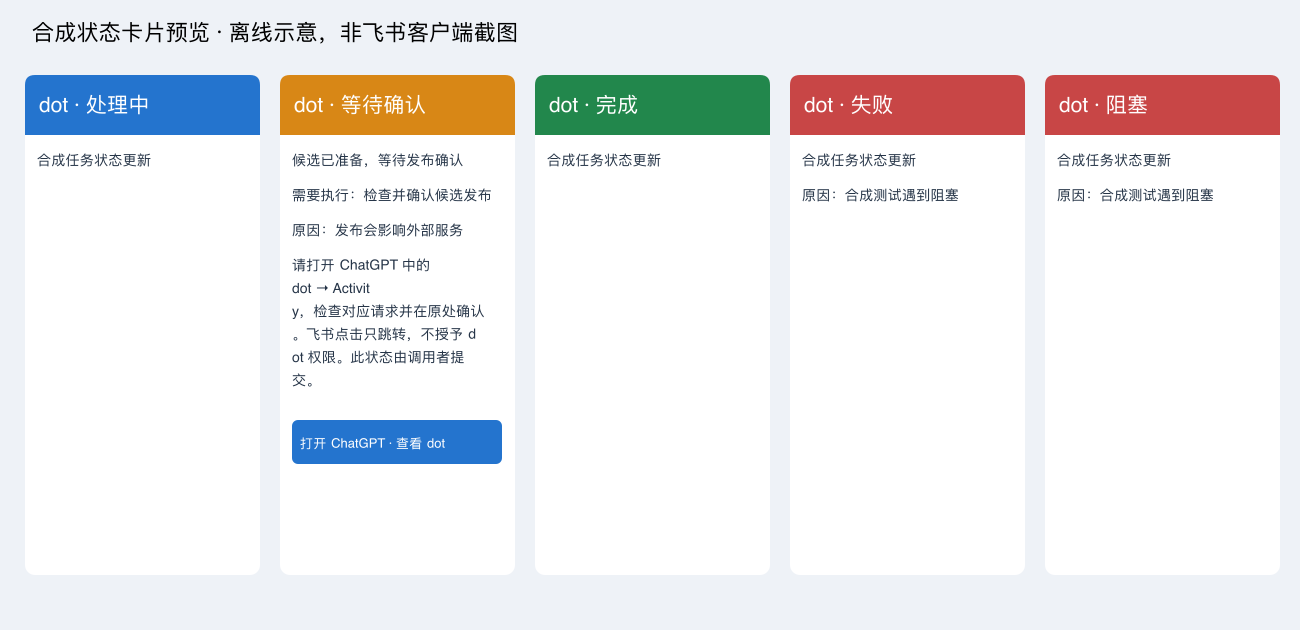
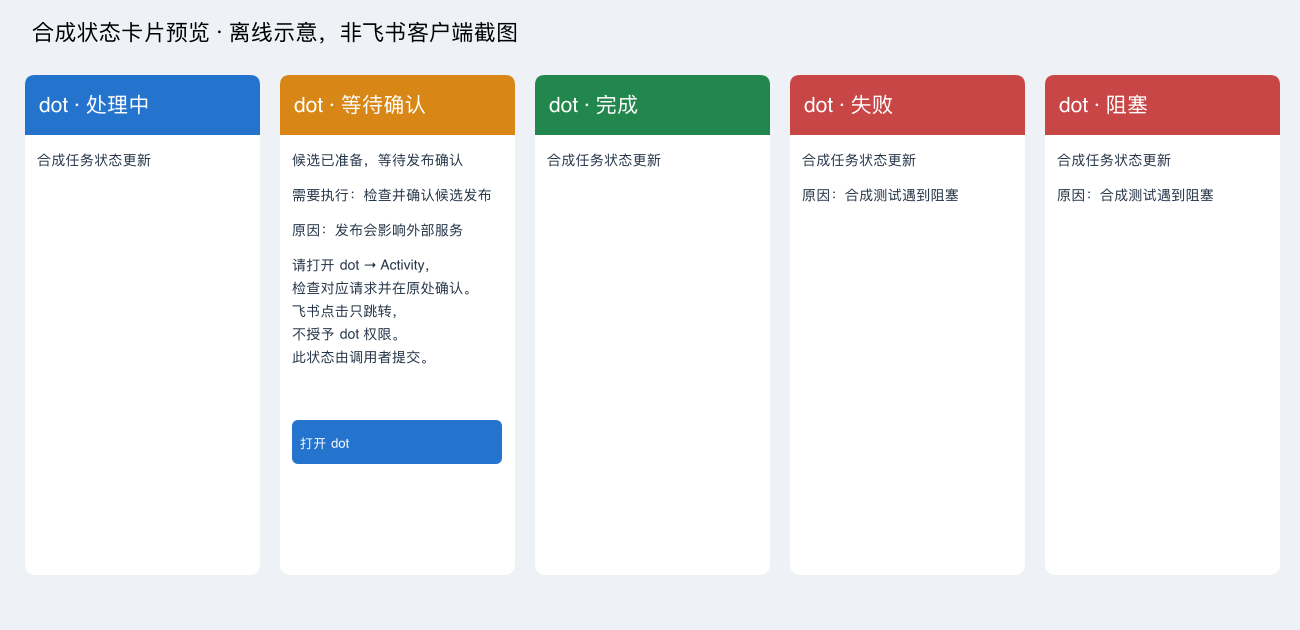
Document explicit outputs and verified dot navigation accurately

Changed region(s): [[0.2154, 0.3921, 0.3692, 0.6032], [0.2462, 0.6937, 0.3385, 0.7238]]

diff --git a/src/status-card.ts b/src/status-card.ts
@@ -14,7 +14,7 @@ export const statusCardSchema = z.object({ binding_id: id, request_id: id, task_
 export type StatusSubmission = z.infer<typeof statusCardSchema>;
 export const labels = { processing:'处理中', waiting_confirmation:'等待确认', completed:'完成', failed:'失败', blocked:'阻塞' };
 // Official product entry only; no guessed task/approval deep links or caller URL.
-export const DOT_ENTRY = 'https://chatgpt.com/';
+export const DOT_ENTRY = 'https://chatgpt.com/dots/home';
 export function buildStatusCard(a: StatusSubmission) {
   for (const value of [a.summary,a.action,a.reason]) if (value && classifyText(value) === 'credential') throw new BridgeError('credential_blocked');
   const label = labels[a.status];
@@ -22,8 +22,8 @@ export function buildStatusCard(a: StatusSubmission) {
   if (a.action) elements.push({ tag:'div', text:{ tag:'plain_text', content:'需要执行：' + a.action } });
   if (a.reason) elements.push({ tag:'div', text:{ tag:'plain_text', content:'原因：' + a.reason } });
   if (a.status === 'waiting_confirmation') {
-    elements.push({ tag:'div', text:{ tag:'plain_text', content:'请打开 ChatGPT 中的 dot → Activity，检查对应请求并在原处确认。飞书点击只跳转，不授予 dot 权限。此状态由调用者提交。' } });
-    elements.push({ tag:'button', text:{ tag:'plain_text', content:'打开 ChatGPT · 查看 dot' }, type:'primary', behaviors:[{ type:'open_url', default_url:DOT_ENTRY }] });
+    elements.push({ tag:'div', text:{ tag:'plain_text', content:'请打开 dot → Activity，检查对应请求并在原处确认。飞书点击只跳转，不授予 dot 权限。此状态由调用者提交。' } });
+    elements.push({ tag:'button', text:{ tag:'plain_text', content:'打开 dot' }, type:'primary', behaviors:[{ type:'open_url', default_url:DOT_ENTRY }] });
   }
   return { schema:'2.0', config:{ update_multi:true, summary:{ content:label + ' · ' + Array.from(a.summary).slice(0,80).join('') + (Array.from(a.summary).length>80 ? '…' : '') } },
     header:{ title:{ tag:'plain_text', content:'dot · ' + label }, template:a.status === 'completed' ? 'green' : ['failed','blocked'].includes(a.status) ? 'red' : a.status === 'waiting_confirmation' ? 'orange' : 'blue' }, body:{ elements } };

diff --git a/test/output.test.ts b/test/output.test.ts
@@ -49,7 +49,7 @@ test('waiting card has plain action/reason, official navigation only and no appr
  assert.throws(()=>f.output.card(f.alice,{...f.card('wait',0,'waiting_confirmation'),action:undefined}));
  const card=buildStatusCard(f.card('wait',0,'waiting_confirmation'));
  assert.match(card.header.title.content,/等待确认/);assert.match(card.config.summary.content,/等待确认/);
- const raw=JSON.stringify(card);assert.ok(raw.includes(DOT_ENTRY));assert.ok(raw.includes('不授予 dot 权限'));assert.equal(raw.includes('callback'),false);assert.equal(raw.includes('value'),false);
+ const raw=JSON.stringify(card);assert.equal(DOT_ENTRY,'https://chatgpt.com/dots/home');assert.ok(raw.includes(DOT_ENTRY));assert.ok(raw.includes('不授予 dot 权限'));assert.equal(raw.includes('callback'),false);assert.equal(raw.includes('value'),false);
  assert.throws(()=>f.output.card(f.alice,{...f.card('fake'),url:'https://attacker.invalid'}));
  assert.throws(()=>f.output.card(f.alice,{...f.card('secret'),summary:'Bearer abcdefghijklmnopqrstuvwxyz123456'}),code('credential_blocked'));
  }finally{f.store.close();}

diff --git a/docs/OUTPUT_DELIVERY_CANDIDATE.md b/docs/OUTPUT_DELIVERY_CANDIDATE.md
@@ -19,7 +19,7 @@ PNG/JPEG only; maximum 4 MiB input and sanitized output, 20 million pixels, maxi
 
 The first submission sends an interactive JSON 2.0 card. Ordinary progress/completion/failure changes PATCH the latest API-accepted card in that task. Every distinct waiting-confirmation submission sends a new important notification card. Repeating the same request and exact body is deduped. A changed body with the same request ID fails; stale revisions and updates after an unresolved predecessor fail. Explicit terminal or uncertain failures require human reconciliation, not a new ID invented to force a resend. A resolved/new activity may use a new observed task ID; do not use this to disguise replay.
 
-The title and message summary name the status. The wait button has only `open_url`, no callback/value/allow action. It opens the verified official ChatGPT homepage and instructs the user to open dot → Activity and respond in the actual request. It does **not** grant dot permission or claim to target a specific approval. The official control documentation verifies the Activity workflow; a precise account-specific dot/approval deep link was not available to this candidate. Parent review should substitute an already independently verified official dot entry if required, never a guessed route or caller-controlled URL. Mobile web dot availability is limited by the official product; use the ChatGPT app when necessary.
+The title and message summary name the status. The wait button has only `open_url`, no callback/value/allow action. It opens the independently verified official dot entry `https://chatgpt.com/dots/home` and instructs the user to open Activity and respond in the actual request. It does **not** grant dot permission or claim to target a specific approval. The official control documentation verifies the Activity workflow; the button does not target a specific task or approval and accepts no caller-controlled URL. Mobile web dot availability is limited by the official product; use the ChatGPT app when necessary.
 
 Cards/images have their own output ledger. They do not fabricate text replies, mark an inbox event handled, or satisfy `covered_by_reply`. Continue to claim/reconcile every original event through the existing schema4 handling workflow.
 
@@ -33,9 +33,9 @@ Offline maintenance recognizes exact schema5, preserves output reservations/tomb
 
 ## Deployment review checklist
 
-No production rollout, permission change, restart, push, merge or real send was performed for this candidate. Review its diff against the exact supplied base and preserve private deployment networking outside the generic commit. On an approved rollout: back up the stopped single-worker database; apply the schema5-capable candidate; run the full synthetic suite on Linux including real decoder and offline-maintenance tests; validate the installed SDK's bounded image POST body allowance; then start one worker.
+The generic development tests make no live sends. A separately authorized installation check is summarized in [acceptance](ACCEPTANCE.md#live-explicit-output-check-2026-10-10); its private deployment configuration and receipts are excluded. Preserve installation-specific networking outside the generic commit. On an approved rollout: back up the stopped single-worker database; apply the schema5-capable candidate; run the full synthetic suite on Linux including real decoder and offline-maintenance tests; validate the installed SDK's bounded image POST body allowance; then start one worker.
 
-Status cards reuse the existing bot message-send permission (`im:message:send_as_bot`); no new callback authorization capability is needed. Before enabling `FEISHU_IMAGE_OUTPUT=on`, verify the app has the upload-image API's required resource permission (the official permission table is the authority), bot capability and existing bound-message send permission. This candidate did not inspect or modify app grants. Keep output images off until real decoder preflight and the dot artifact-byte handoff are validated. Separately authorize a live synthetic-image upload/send and card send/PATCH smoke test to the user's existing bound DM; inspect actual receipts and client visibility. No arbitrary external recipient is configurable.
+Status cards reuse the existing bot message-send permission (`im:message:send_as_bot`); no new callback authorization capability is needed. Before enabling `FEISHU_IMAGE_OUTPUT=on`, verify the app has the upload-image API's required resource permission (the official permission table is the authority), bot capability and existing bound-message send permission. No app grants are assumed or changed by this code. Keep output images off until real decoder preflight and the dot artifact-byte handoff are validated. Separately authorize a live synthetic-image upload/send and card send/PATCH smoke test to the user's existing bound DM; inspect actual receipts and client visibility. No arbitrary external recipient is configurable.
 
 ## Sources
 
@@ -51,9 +51,8 @@ Status cards reuse the existing bot message-send permission (`im:message:send_as
 ## Local candidate validation
 
 - TypeScript build and `git diff --check` pass.
-- New synthetic output/official-SDK transport tests: 17 pass. These cover image bytes, encryption, dedupe/conflicts, JPEG chunks, upload versus message receipts, wait notification/PATCH behavior, revocation, uncertain restart, receipt-persistence failure, binding changes during decode, the real bridge worker, MCP visibility and schema5 exact maintenance layout. Sharp is used on original synthetic pixels through an explicit test decoder seam; no production decoder fallback is added.
-- Final focused output + existing handling/receipt/text/MCP regressions: 61 pass, 1 Linux-only test skipped.
-- Complete serial regression run on macOS with OpenSSL 3: 408 tests, 353 pass, 48 skipped, 7 fail. All seven failures exercise real image decoding or image-enabled startup through missing `/usr/bin/prlimit`. Linux `/proc` maintenance tests are among the skips. This is not a fully green deployment gate. Schema5 maintenance scenarios were added and are locally skipped; they must pass on Linux before rollout.
+- The preceding generic candidate passed the complete Linux suite: 429 tests, 429 pass, zero failures/skips. It includes real decoder and offline-maintenance checks, output dedupe/conflicts, upload versus message receipts, card PATCH, revocation, uncertain restart, receipt-persistence failures, worker/MCP visibility, schema5 migration and staging-quota rollback. All media and provider fixtures are synthetic.
+- The final publication checkout must pass its own build, aggregate Linux suite and demo, and GitHub CI for the exact published SHA. Earlier macOS-only runs with missing Linux prerequisites do not meet this gate.
 - Five raw JSON cards plus [offline preview](assets/status-cards-preview.png) are supplied for review. The preview is an illustration, not evidence of Feishu acceptance/rendering.
 - No production keys, user images, live Feishu calls, deployment permissions, private account IDs, private proxy settings or host paths were introduced.
 

diff --git a/README.en.md b/README.en.md
@@ -2,7 +2,7 @@
 
 ### Keep talking to your dot, from Feishu
 
-Connect your own Feishu bot DM to the dot you already use. Send a question from Feishu, let dot work on it, and bring an authorized text reply back to the original message. With image input enabled, dot can also view newly received PNG/JPEG images.
+Connect your own Feishu bot DM to the dot you already use. Send a question from Feishu, let dot work on it, and bring an authorized text reply back to the original message. With image input enabled, dot can also view newly received PNG/JPEG images. Optional image output sends explicitly requested current generated images to the same paired DM; callers submit status cards explicitly.
 
 **One personal installation, on your own host.** Bring your Feishu app and owner-only official OpenAI Tunnel. The bridge connects them; it does not run a model or provide a shared hosted service.
 
@@ -26,10 +26,12 @@ Connect your own Feishu bot DM to the dot you already use. Send a question from 
 | Continue from Feishu | Receive text and rich posts in your paired bot DM and notify your existing dot; links in posts stay unopened |
 | Bring the answer back | Dot calls `reply_to_feishu` to reply to the original message; authorized ChatGPT text can also be sent as a source-labeled copy to the current paired DM |
 | Show dot an image | Opt-in PNG/JPEG input, including up to four new embedded post images, locally stripped of metadata and re-encoded |
+| Bring back a current generated image | Opt-in PNG/JPEG output: a trusted adapter supplies actual image bytes for upload and message delivery, with separate receipts |
+| Share task status | Explicit processing, confirmation wait, completion, failure or blocked cards; ordinary updates PATCH one card, important waits send a new card, and the button only opens the official dot entry |
 | See which inputs are handled | Per-event processing, approval waits, no-reply decisions and merged-reply coverage, alongside separate queue and API acceptance states |
 | Run on your own host | SQLite-backed inbox and delivery state with host process supervision; one owner, Feishu app and current DM binding per installation |
 
-Text mode exposes **13 MCP tools**. `FEISHU_MEDIA_INPUT=images-v1` adds `get_event_image`, for 14 tools. Image processing and disclosure still need explicit authorization. Audio, transcription and outbound media are unsupported.
+The default catalog has **16 MCP tools**, including status submission and output queries. `FEISHU_MEDIA_INPUT=images-v1` adds `get_event_image`; `FEISHU_IMAGE_OUTPUT=on` adds two image staging/sending tools. Input alone gives 17 tools, output alone 18, and both enabled 19. Input and output are separate opt-ins limited to bounded PNG/JPEG. Image processing, disclosure and status sends still require explicit authorization. Audio and transcription are unsupported. The bridge does not automatically capture every dot answer or approval; clicking a Feishu card does not approve dot permissions.
 
 ## Before you start
 
@@ -60,7 +62,7 @@ UI authentication “None” means no separate OAuth flow; backend key validatio
 
 ## Try it before relying on it
 
-Short live checks have observed text flowing both ways, event recovery reads and one merged reply with recorded coverage; see the [real acceptance record](docs/ACCEPTANCE.md#live-merged-text-check-2026-10-10). This is experimental software. Those checks do not establish uninterrupted availability or greater reliability than cloud hosting.
+Short live checks have observed text flowing both ways, event recovery reads and one merged reply with recorded coverage; see the [real acceptance record](docs/ACCEPTANCE.md#live-merged-text-check-2026-10-10). An authorized live check also observed real image upload/send and status-card create/PATCH; see the [output acceptance boundaries](docs/ACCEPTANCE.md#live-explicit-output-check-2026-10-10). This is experimental software. Those checks do not establish uninterrupted availability or greater reliability than cloud hosting.
 
 - **Dot initiates replies.** A dot answer does not create a Feishu reply. The caller checks for missing work on a wake; no independent automatic resend service is supplied.
 - **Delivery states differ.** Callback acceptance does not prove dot processed an event. `pending` is queued; `sent` means API acceptance, not display/read confirmation. Verify the destination before retrying `uncertain` outcomes.
@@ -85,6 +87,7 @@ The full suite requires Linux, `/usr/bin/prlimit`, `openssl` and `mkfifo`. macOS
 | Install, connect a Tunnel, back up or upgrade | [Personal deployment](docs/DEPLOYMENT.md) |
 | Configure dot's processing and reply workflow | [Per-event handling](docs/EVENT_HANDLING.md) · [Owned reads](docs/OWNED_EVENT_READS.md) |
 | Enable images or understand rich posts | [Image input](docs/MEDIA_INPUT_CANDIDATE.md) · [Rich posts](docs/RICH_POST_INPUT.md) |
+| Send current generated images or explicit status cards | [Output delivery and media handoff](docs/OUTPUT_DELIVERY_CANDIDATE.md) |
 | Send authorized ChatGPT text copies | [Text mirroring](docs/TEXT_MIRROR_V1.md) |
 | Diagnose transport or clean old inbox history | [Transport configuration](docs/DEPLOYMENT.md#9-可选传输与兼容模式) · [Offline maintenance](docs/OFFLINE_MAINTENANCE.md) |
 | Understand protocols, permissions and contribution | [Protocol](docs/PROTOCOL.md) · [Security](SECURITY.md) · [Contributing](CONTRIBUTING.md) |

diff --git a/README.md b/README.md
@@ -2,7 +2,7 @@
 
 ### 在飞书里，接着和你的 dot 聊
 
-把自己的飞书机器人私聊，接到已经在用的 dot：从飞书发来问题，让 dot 处理，再把经你授权的文字回复送回原消息。开启图片输入后，也能把新收到的 PNG/JPEG 交给 dot 查看。
+把自己的飞书机器人私聊，接到已经在用的 dot：从飞书发来问题，让 dot 处理，再把经你授权的文字回复送回原消息。开启图片输入后，也能把新收到的 PNG/JPEG 交给 dot 查看；开启图片输出后，可把明确要求的当前生成图片发回同一绑定私聊。状态卡片由调用者显式提交。
 
 **每人自己部署一套。** 你提供飞书应用、主机和本人专属的官方 OpenAI Tunnel；bridge 负责连接，不运行模型，也不提供共享托管服务。
 
@@ -26,10 +26,12 @@
 | 从飞书继续对话 | 接收本人已绑定私聊的文字和富文本帖子，将新事件通知已有 dot；帖子里的链接不会自动打开 |
 | 把答案带回飞书 | dot 调用 `reply_to_feishu`，回复固定回到原消息；授权的 ChatGPT 文字也可作为带来源标签的副本发送到当前绑定私聊 |
 | 给 dot 看一张图 | 默认关闭的 PNG/JPEG 输入；支持新图片和帖子中最多四张内嵌图片，本地去元数据并重编码 |
+| 带回当前生成图片 | 默认关闭的 PNG/JPEG 输出；通过受信适配器传入实际图片字节，真实上传并发送，分别核查上传与消息回执 |
+| 同步任务状态 | 显式提交处理中、等待确认、完成、失败／阻塞卡片；普通进度更新同一卡片，重要等待另发，按钮只跳转到官方 dot 入口 |
 | 看清哪些输入处理完了 | 逐事件记录处理中、等待授权、不回复及合并回复覆盖；分别查看排队、API 接受和不确定投递状态 |
 | 在自己的主机运行 | 本地 SQLite 保存收件和投递状态，配合主机进程监管；一套安装、一个主人、一个飞书应用与当前私聊绑定 |
 
-文字模式有 **13 个 MCP 工具**；设置 `FEISHU_MEDIA_INPUT=images-v1` 后增加 `get_event_image`，共 14 个。图片处理和披露仍需明确授权。没有语音、转写或媒体发送功能。
+默认有 **16 个 MCP 工具**，包括状态提交与输出查询。`FEISHU_MEDIA_INPUT=images-v1` 增加 `get_event_image`；`FEISHU_IMAGE_OUTPUT=on` 增加图片分块暂存与发送两个工具。只开输入共 17 个，只开输出共 18 个，两者全开共 19 个。输入和输出分别启用，仅支持受限 PNG/JPEG；图片处理、披露与状态发送仍需明确授权。不支持语音或转写，也不会自动捕获所有 dot 回复或审批；飞书卡片点击不批准 dot 权限。
 
 ## 开始前准备好
 
@@ -60,7 +62,7 @@ npm run init:personal
 
 ## 先试，再长期运行
 
-短时实网检查已观察到文字双向流转、事件恢复读取和一次合并回复覆盖，详见[真实验收记录](docs/ACCEPTANCE.md#live-merged-text-check-2026-10-10)。这是实验性项目，尚不能据此承诺全天稳定或比云端更可靠。
+短时实网检查已观察到文字双向流转、事件恢复读取和一次合并回复覆盖，详见[真实验收记录](docs/ACCEPTANCE.md#live-merged-text-check-2026-10-10)。当前生成图片的真实上传／发送及状态卡片创建／更新也已在一次授权实网检查中观察到，见[输出验收边界](docs/ACCEPTANCE.md#live-explicit-output-check-2026-10-10)。这是实验性项目，尚不能据此承诺全天稳定或比云端更可靠。
 
 - **回复由 dot 发起。** dot 内的答案不会自动变成飞书回复；漏项检查由调用方在唤醒时执行，没有独立自动补发服务。
 - **状态需要分开看。** callback 接受不代表 dot 已处理；`pending` 不是送达，`sent` 表示 API 接受而非客户端显示／已读，`uncertain` 必须先核对目的端。
@@ -85,6 +87,7 @@ npm run demo
 | 安装、连接 Tunnel、备份或升级 | [个人部署](docs/DEPLOYMENT.md) |
 | 配置 dot 的处理与回复流程 | [逐事件处理契约](docs/EVENT_HANDLING.md) · [本人事件读取](docs/OWNED_EVENT_READS.md) |
 | 开启图片或了解帖子处理 | [图片输入](docs/MEDIA_INPUT_CANDIDATE.md) · [富文本帖子](docs/RICH_POST_INPUT.md) |
+| 发送当前生成图片或显式状态卡片 | [输出投递与媒体交接](docs/OUTPUT_DELIVERY_CANDIDATE.md) |
 | 发送授权的 ChatGPT 文字副本 | [文字镜像](docs/TEXT_MIRROR_V1.md) |
 | 排查传输或清理旧收件记录 | [传输配置与诊断](docs/DEPLOYMENT.md#9-可选传输与兼容模式) · [离线维护](docs/OFFLINE_MAINTENANCE.md) |
 | 理解协议、权限和发布要求 | [协议](docs/PROTOCOL.md) · [安全](SECURITY.md) · [贡献](CONTRIBUTING.md) |

diff --git a/docs/ACCEPTANCE.md b/docs/ACCEPTANCE.md
@@ -11,7 +11,7 @@ October 8–9, 2026 development sessions encountered disappearing dot cloud sess
 - [ ] Personal listener remains exact loopback; missing, wrong, forged and overridden header credentials fail
 - [ ] Official Tunnel access is restricted to this owner; Tunnel runtime key and local bridge key are distinct and never logged
 - [ ] The actual account supports the selected Tunnel/authentication/MCP Events combination; no authentication is removed to work around a failure
-- [ ] All 13 default tools are callable; optional image mode adds `get_event_image` with its current schema, including `image_index`
+- [ ] All 16 default tools are callable; input adds `get_event_image` (17), output adds two staging/sending tools (18 output-only, 19 with both); verify actual schemas, including `image_index`
 - [ ] Verified Feishu app/tenant and minimum private-message permissions, with no competing consumer or overwritten existing handler
 - [ ] Real WS readiness, temporary disconnect, terminal failure, graceful shutdown and supervised restart are tested
 - [ ] Pairing admits only the intended owner's current DM; other users, bots and groups cannot route into it
@@ -22,7 +22,7 @@ October 8–9, 2026 development sessions encountered disappearing dot cloud sess
 - [ ] Delivery states are checked separately for Feishu and ChatGPT; no callback 2xx, queue acceptance or remote API acceptance is mislabeled as client display/read/processing
 - [ ] Authorized native ChatGPT user and assistant text each reach the current bound DM; source-labeled copies are not mirrored back as new inputs
 - [ ] Unsupported and suspected-credential notices are visible; false-positive/false-negative limits are understood
-- [ ] Private consistent backups, restore/reconciliation and schema v4 fix-forward are tested; one process owns the database
+- [ ] Private consistent backups, restore/reconciliation and schema v5 fix-forward are tested; one process owns the database
 - [ ] [Maintenance limits](OFFLINE_MAINTENANCE.md) are understood, including Linux-only operation and indefinite receipt/mirror retention
 
 ## Optional image and rich-post acceptance
@@ -68,3 +68,9 @@ availability or superiority to cloud hosting. The installation still depends
 on dot calling the send tool; alert reconciliation runs on a wake. No
 independent continuous automatic resend service was tested or installed.
 Do not replay older pending inputs already covered by subsequent replies.
+
+## Live explicit-output check (2026-10-10)
+
+The coordinating session reported one authorized live check using actual bytes rendered from an original repository flow diagram. The image upload and bound-DM message send were separately API-accepted, and the user confirmed the image was visible. A processing card was created, then completion PATCHed the same message; an explicitly labeled test waiting card was sent separately. The user confirmed its button opened the dot homepage. The button grants no permission; any actual approval must happen in the original dot request. A prior cancelled card call had no stored output reservation and was retried only after renewed human authorization. Final output alerts were empty. Private receipts, message/account identifiers and deployment configuration are intentionally omitted.
+
+These observations validate one explicit byte-handoff and card path. They do not prove every image format, card style or client, all-client rendering, read status, sustained reliability, or automatic capture of every dot reply/approval. Callers still submit and reconcile each authorized output. PNG/JPEG limits and the trusted artifact-adapter requirements remain mandatory.

diff --git a/docs/OWNED_EVENT_READS.md b/docs/OWNED_EVENT_READS.md
@@ -24,7 +24,7 @@ Input: exactly `{ "event_id": "…" }` with a nonempty string of at most 256 cha
 
 Output: the same minimal event fields, plus `reply: { state, attempts }`. The same rolling 24-hour and complete active-binding scopes apply, but an existing reply job does not hide the event. `state` is `not_queued`, `pending`, `sending`, `sent`, `dead`, `cancelled` or `uncertain`; an unrecognized stored state is reported only as `unknown`. No reply payload, job ID, callback state, recipient identity, signature, token or credential is returned. `attempts` is a nonnegative safe integer. Unknown, expired, malformed-time, future-time, inaccessible and old-binding event IDs all return the identical `event_not_found` error. Schema-invalid requests return `invalid_request`.
 
-Both read tools reject expired/revoked authorization as `unauthorized` before cursor or event lookup. The read operations perform only SELECTs; they do not perform schema migration. Store initialization uses schema v4; see [event handling](EVENT_HANDLING.md). Existing event IDs and reply idempotence remain. The raw pending query may include waits or explicit no-reply decisions; inspect handling status before acting. Recorded decisions and live claim revisions now gate reply creation.
+Both read tools reject expired/revoked authorization as `unauthorized` before cursor or event lookup. The read operations perform only SELECTs; they do not perform schema migration. Store initialization uses schema v5; see [event handling](EVENT_HANDLING.md). Existing event IDs and reply idempotence remain. The raw pending query may include waits or explicit no-reply decisions; inspect handling status before acting. Recorded decisions and live claim revisions now gate reply creation.
 
 ## Default-off image metadata
 

diff --git a/docs/EVENT_HANDLING.md b/docs/EVENT_HANDLING.md
@@ -10,7 +10,7 @@ or invent a platform acknowledgement.
 
 Four authenticated tools use the existing protected MCP endpoint and recheck the
 complete current binding identity. No caller-selected owner or destination exists.
-The text catalog now has 13 tools; the unchanged image opt-in adds the 14th.
+The default catalog has 16 tools, including explicit status/output queries. Image input adds one tool; image output adds two separately enabled tools (17 input-only, 18 output-only, 19 with both). See [output delivery](OUTPUT_DELIVERY_CANDIDATE.md); statuses remain caller-submitted and do not approve dot permissions.
 
 - `get_event_handling({event_id})`: read metadata, decision/revision, lease,
   callback acceptance and actual direct or covering reply state. No message text,
